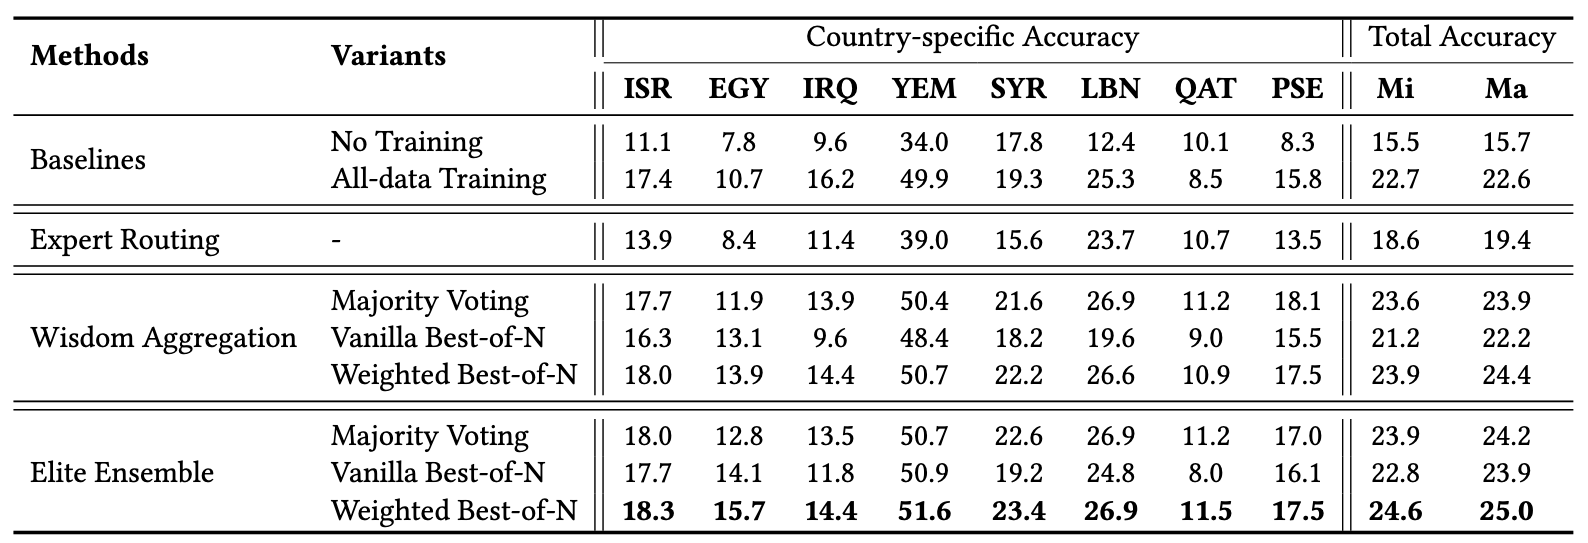
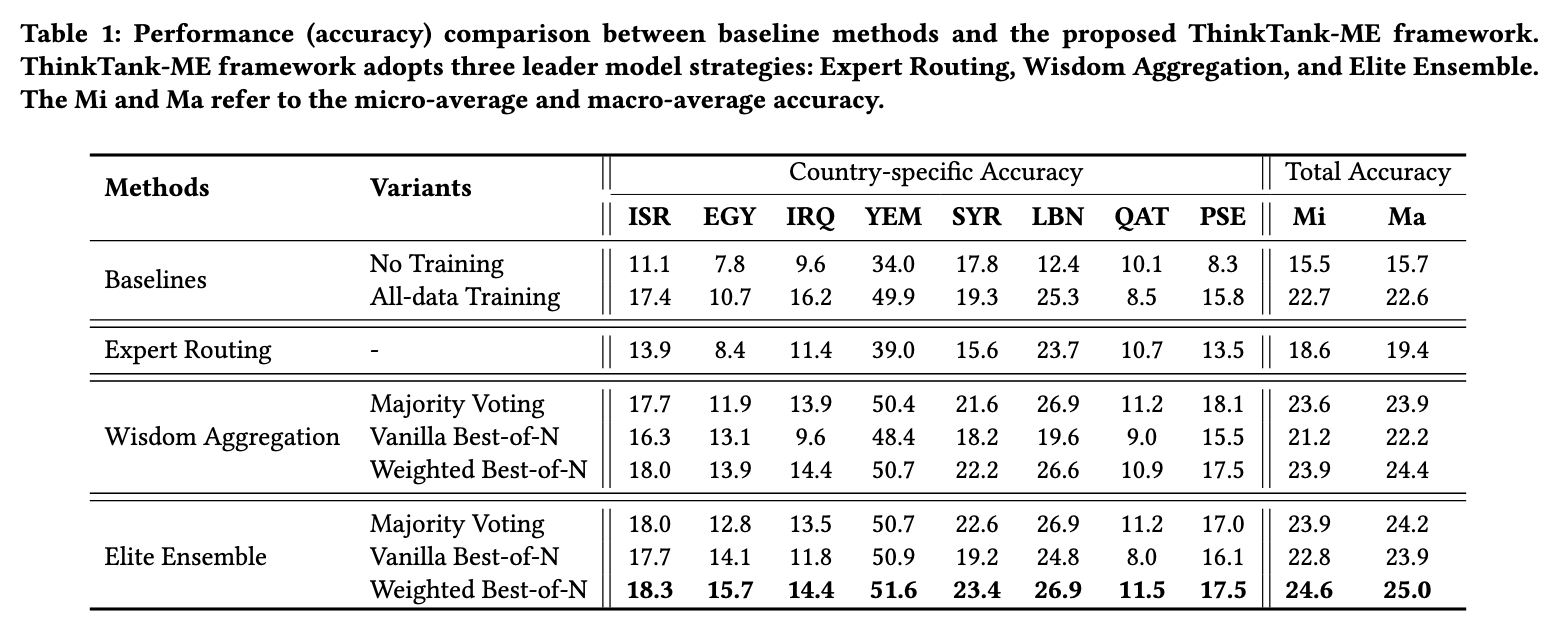
add fig

Changed region(s): [[0.0, 0.0295, 0.991, 1.0], [0.0, 0.8545, 0.1858, 0.9134], [0.929, 0.1473, 0.96, 0.1768]]

diff --git a/README.md b/README.md
@@ -4,14 +4,68 @@ This repository contains the code, dataset construction pipeline, and more exper
 
 ## Motivation
 
+<p align="center">
+  <img src="figs/fig_motivation.png" width="500"/>
+</p>
+
+
 ## Framework
+
+![framework](figs/fig_framework.png)
 
 ## Experiments
 
 ![exp_1](figs/table_1_1.png)
 ![exp_2](figs/table_1_2.png)
-![exp_3](figs/figure_1.png)
-![exp_4](figs/figure_2.png)
+![exp_3](figs/fig_exp_1.png)
+![exp_4](figs/fig_exp_2.png)
+
+## Prompts
+
+### For the expert model:
+```
+System:
+You are a think tank expert specializing in the political, military, and economic dynamics of {country}. You possess extensive knowledge of historical and contemporary events, policies, and strategies relevant to {country} and its interactions with other nations. Your expertise includes identifying patterns and trends in historical and current events, interpreting complex geopolitical contexts, and delivering informed predictions.
+
+Your task is to analyze [Historical Events] and predict the most likely object for a [Current Event to Predict]. [Historical Events] consist of a series of timestamped event sets, with each set containing multiple atomic events. The [Current Event to Predict] is presented as a query requiring the identification of the most plausible object, based on the given subject, relationship, and timestamp. Each timestamp is represented as [year-month-day], and atomic events are formatted as triples [subject, relation, object]. For example, [France, REQUEST_meet, Russia] indicates that  'France' (subject) has the relation 'REQUEST_meet' with 'Russia' (object).
+
+User:
+[Historical Events]:
+{historical_events}
+[Current Event to Predict]:
+{current_event}
+
+Please use your deep understanding of {country_name_i}'s internal and external dynamics, as well as the broader geopolitical environment, to deliver accurate, contextually informed predictions. Only provide the missing object without additional explanation.
+
+Assistant:
+{Object}
+```
+
+### For the routing model:
+
+<details>
+<summary>The prompts are as follows:</summary>
+
+```
+System:
+Your task is to analyze [Historical Events] and [Current Event to Predict], and then select the most appropriate expert by reasoning from among the candidates to make a prediction.
+
+[Candidates] consist of the nationalities of different experts. [Historical Events] consist of a series of timestamped event sets, with each set containing multiple atomic events. The [Current Event to Predict] is presented as a query requiring the identification of the most plausible object, based on the given subject, relationship, and timestamp. Each timestamp is represented as [year-month-day], and atomic events are formatted as triples [subject, relation, object]. For example, [France, REQUEST_meet, Russia] indicates that  'France' (subject) has the relation 'REQUEST_meet' with 'Russia' (object).
+
+User:
+[Historical Events]:
+{historical_events}
+[Candidates]:
+['Iran', 'Israel', 'Egypt', 'Saudi Arabia', 'Turkey', 'Iraq', 'Yemen', 'Syria', 'Jordan', 'United Arab Emirates', 'Lebanon', 'Oman', 'Kuwait', 'Qatar', 'Bahrain', 'Cyprus', 'Palestine', 'China', 'United States', 'Russia', 'United Kingdom', 'France', 'Germany', 'Korea', 'Japan', 'India', 'Canada', 'Italy', 'Australia', 'Spain', 'Argentina', 'Brazil', 'Indonesia', 'Mexico', 'South Africa']
+
+Please use your deep understanding of the predicted events and the broader geopolitical environment, to deliver accurate, contextually informed selections. Only provide the nationality of the expert without additional explanation. 
+
+Assistant:
+{Expert}
+```
+
+
+</details>
 
 ## POLECAT-FOR-ME
 
